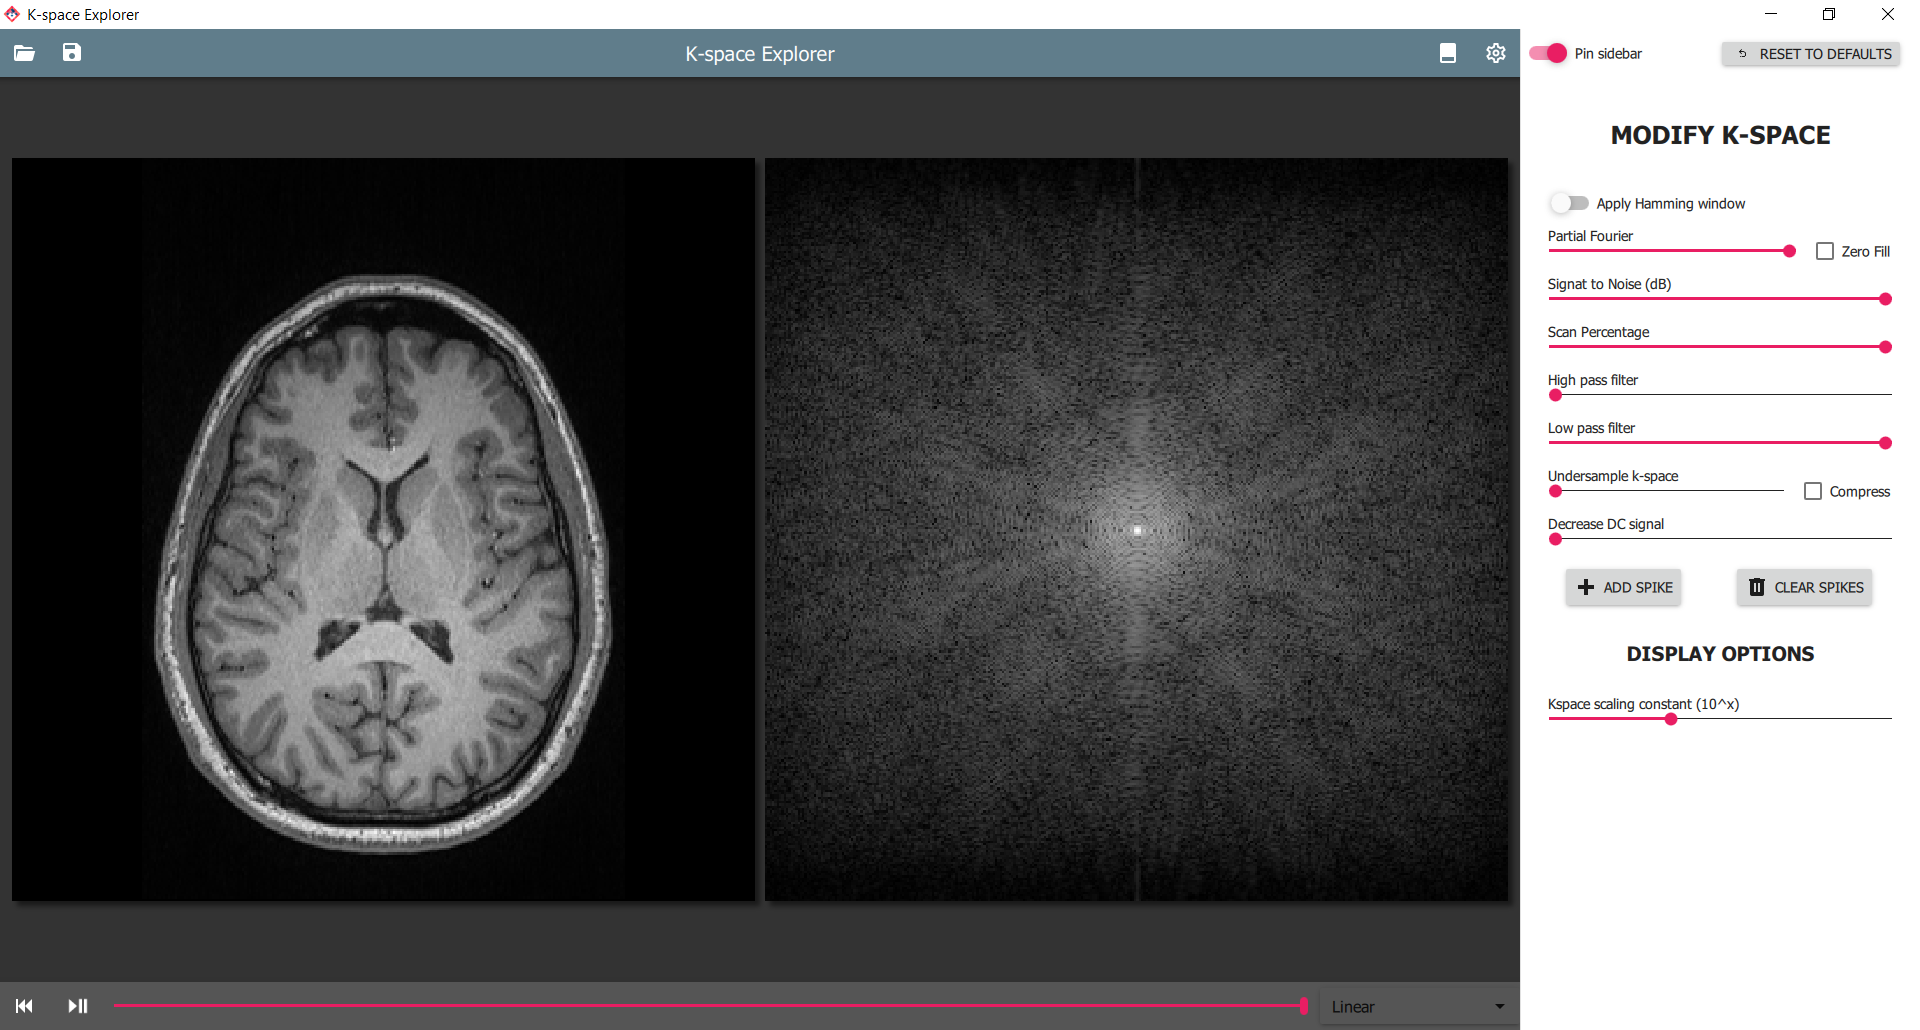
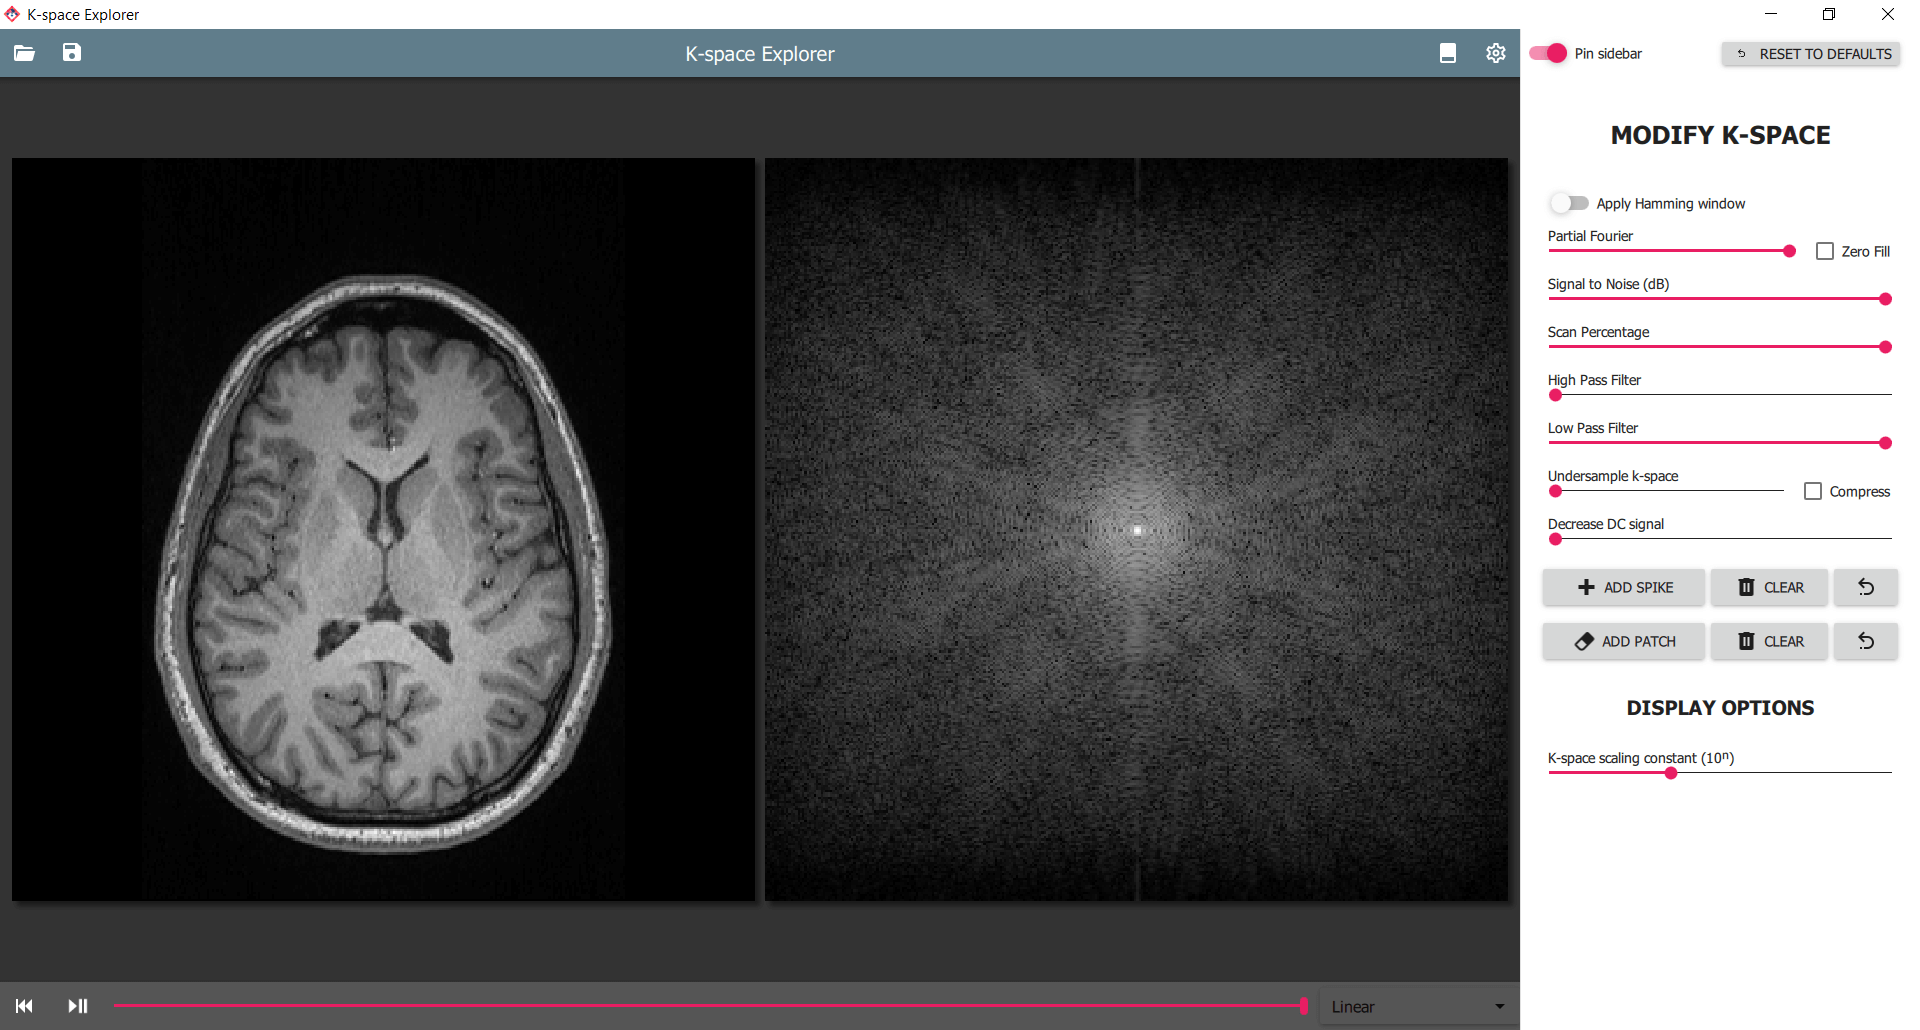
Updated readme and landing page screenshots to latest version

Changed region(s): [[0.7812, 0.5282, 1.0, 0.7767], [0.8125, 0.2485, 0.875, 0.2796]]

diff --git a/README.md b/README.md
@@ -13,8 +13,8 @@ the hood.
 The software has many useful features, such as:
 
 * A modern responsive user interface using Qt
-* Real-time Fourier transform to instantaneously visualise changes
-* Load your own images and analyse artefacts originating from kspace
+* Automatic Fourier transform to instantaneously visualise changes
+* Load your own images and analyse artefacts originating from k-space
 * Short explanation for various functions within the software
 
 ---
@@ -37,7 +37,7 @@ If you find it useful please consider [buying me a coffee with PayPal](https://w
     * **NumPy**     - handles FFT transforms and array operations
     * **pydicom**   - DICOM format medical image reader
 
-    Install via pip by copying the command below to a command prompt (Windows: `Win+R` and type `cmd` and hit Enter)
+    Install via pip by copying the command below to a command prompt (Windows: `Win+R` and type `cmd` and press Enter)
 
     ```shell
         pip3 install numpy pydicom Pillow PyQt5
@@ -47,7 +47,7 @@ If you find it useful please consider [buying me a coffee with PayPal](https://w
 
 ## Starting the program
 
-Navigate to the folder that contains and run it by typing the command below
+Navigate to the folder that contains the extracted software and run it by typing the command below
 
 ``` shell
     python kspace.py
@@ -59,8 +59,8 @@ To save you navigating on Windows,
 just open the folder where the app was extracted and: 
 * Click the address bar (the line that looks something 
 like this: *"This PC > Downloads > kspace-explorer-master"*)
-* Delete the address and type ```cmd``` and hit Enter
-* A window should appear and you can now type ```python kspace.py```
+* Delete the address and type ```cmd``` and press Enter
+* A window should appear, and you can now type ```python kspace.py```
 ## **Usage**
 
 KSE automatically loads a default image but you can
@@ -72,19 +72,19 @@ easily switch images by either:
 
 ### Accessing the k-space modifiers
 
-There are various modifiers available to modify the k-space to see their effects on the resulting image. These are accessible from the drawer panel on the right. To access it:
+There are various modifiers available to edit the k-space and see the effects on the resulting image. These are accessible from the drawer panel on the right. To access it:
 
 * Click and Drag inwards from the right side of the window
-* Hit the `Tab` key
+* Press the `Tab` key
 * Click the round button ![Drawer open icon](docs/tune-vertical.png) on the lower right side
 
 ### Simulating image acquisition
 
 You can use the controls in the footer. The footer can be toggled by using the toolbar icon ![Footer toggle icon](docs/layout-footer.png) or by hitting `F7`
 
-* To start or continue the acquisition, press Play/Pause ![Play/Pause icon](docs/play-pause.png) or hit `F5`
-* To rewind press Rewind ![Rewind icon](docs/skip-backward.png) or hit ``F4``
-* You can change the simulation mode with the combobox on right-hand side
+* To start or continue the acquisition, press Play/Pause ![Play/Pause icon](docs/play-pause.png) or press `F5`
+* To rewind press Rewind ![Rewind icon](docs/skip-backward.png) or press ``F4``
+* You can change the simulation mode with the dropdown box on right-hand side
 
 ### Saving images
 
@@ -93,7 +93,7 @@ Your modified images can be saved to your computer by either
 * Pressing `Ctrl+S`
 * Clicking Save ![Play/Pause icon](docs/save.png) on the toolbar
 
-Then select the location and the filename. Visual representation of the k-space and the corresponding image will be saved with *_k* and *_i* suffixes respectively.
+Then select the location and the filename. Visual representation of the k-space and the corresponding image will be saved with *_k* and *_i* suffixes, respectively.
 
 *Please note that if you select the tiff format, k-space image will be saved with 32-bit depth. This not handled well with many image viewers.*
 
@@ -101,17 +101,17 @@ Then select the location and the filename. Visual representation of the k-space 
 
 To enhance certain parts of the image for viewing it is often useful to change the **brightness** or **contrast** of the displays.
 
-* Hold the right mouse button and move up/down to change image or k-space brighness
+* Hold the right mouse button and move up/down to change image or k-space brightness
 * Hold the right mouse button and move left/right to change image contrast
 
 With **windowing** it is possible to limit the displayed image pixel intensity range.
 
 * Drag mouse left/right with middle mouse button pressed to change window width
-* Drag mouse up/down with middle mouse button pressed to change window center
+* Drag mouse up/down with middle mouse button pressed to change window centre
 
 ## **Comparison to Other Similar Projects**
 
-This app was directly influenced by the article of D. Moratal et al. [1], however my aim was to go beyond the functionality that it offers. There are several other similar software for different computing environments. Here is a non exhaustive list of them:
+This app was directly influenced by the article of D. Moratal et al. [1], however my aim was to go beyond the functionality that it offers. Several similar software is available for different computing environments. Here is a non-exhaustive list of them:
 
 * [k-Space Tutorial](https://www.ncbi.nlm.nih.gov/pmc/articles/PMC3097694/) (PC, Matlab) [1]
 * [Journey through k-space](http://ww3.comsats.edu.pk/miprg/Downloads.aspx) (PC, Matlab) [2]
@@ -139,16 +139,19 @@ The aim of K-space Explorer is to provide a smooth, modern UI with familiar tool
 
 To get a deeper understanding of the inner workings the code can be inspected. In-line documentation can help understanding the mathematical principles behind various interactions.
 
+## Latest changes
+
+* Added k-space *Patch tool* to eliminate spikes
+
 ## Known bugs
 
 * RGB DICOMs are not supported
 
 ## Planned features
 
-* Heal Tool - remove spikes from kspace
 * Accelerated scanning method simulation (SENSE, GRAPPA, POCS)
 * Multiple languages
-* CLAHE enhanchement
+* CLAHE enhancement
 
 ## Disclaimer and limitations
 
